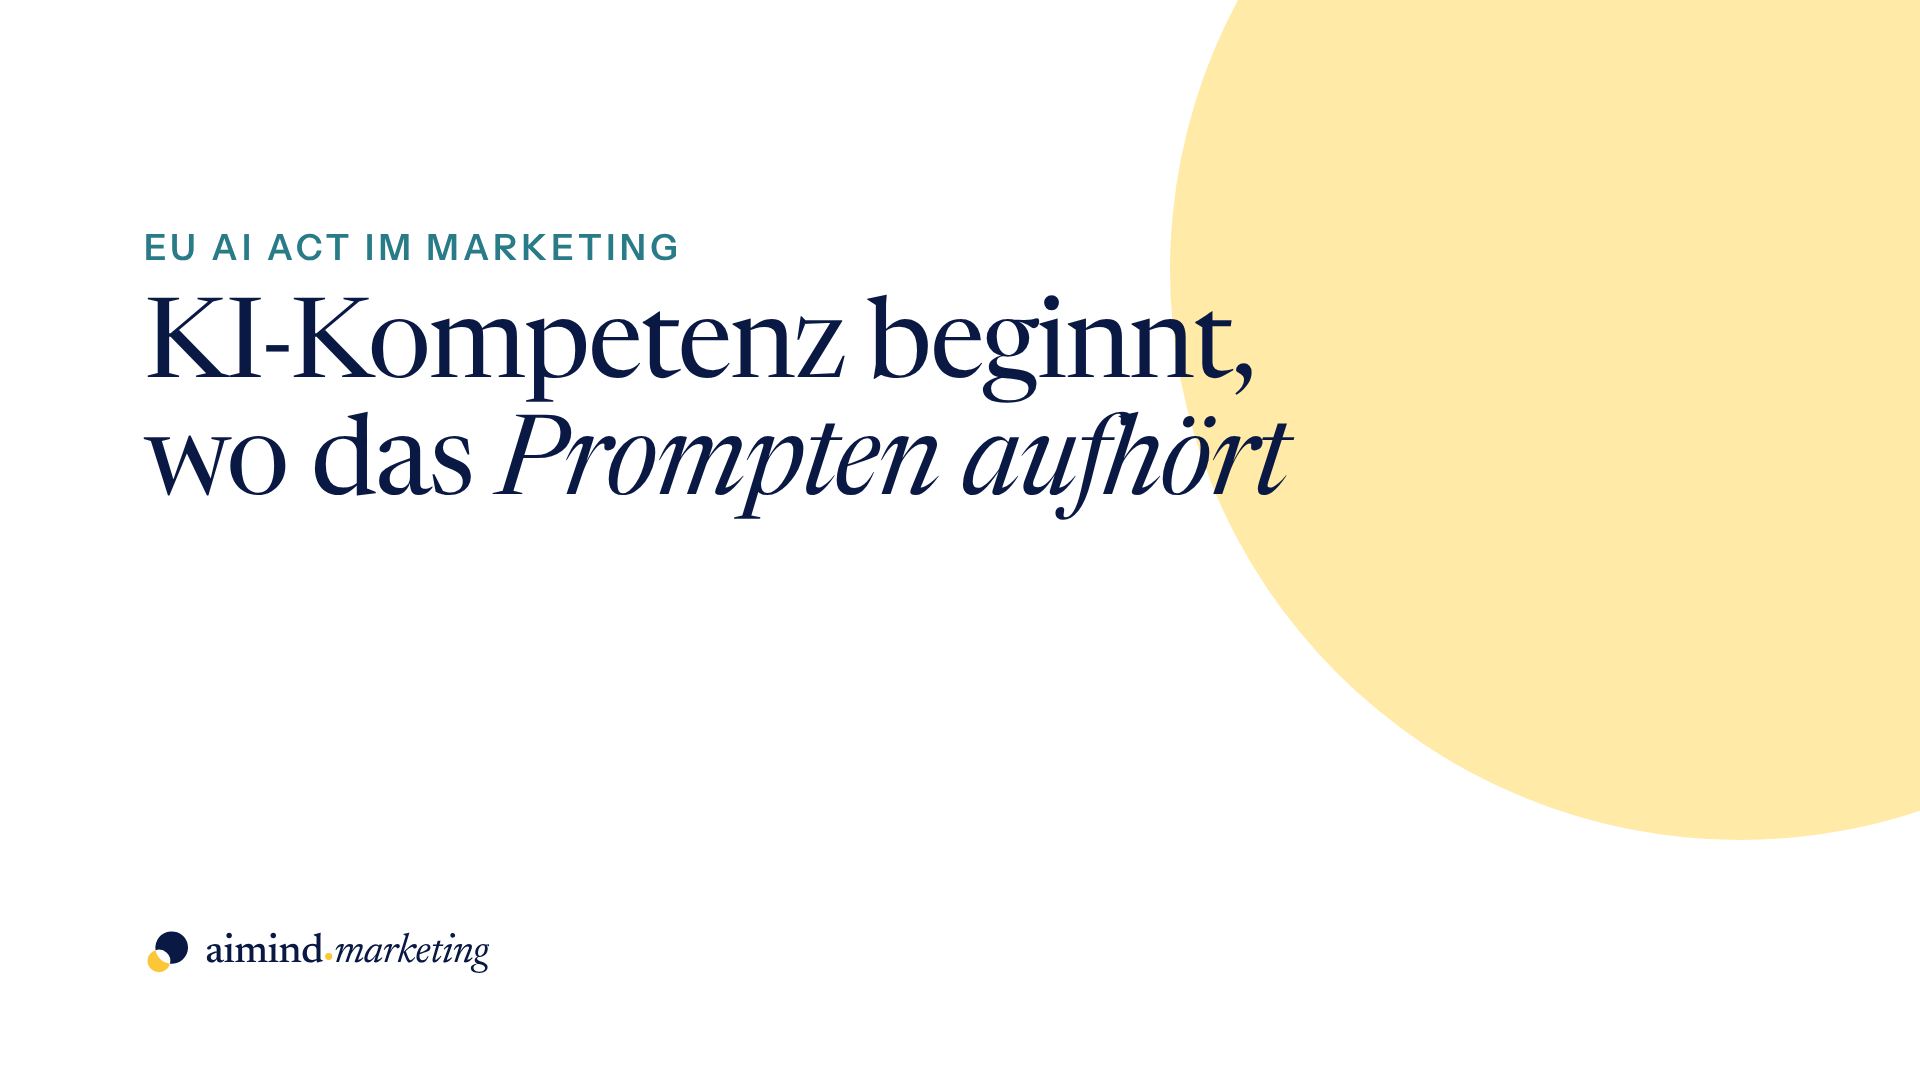
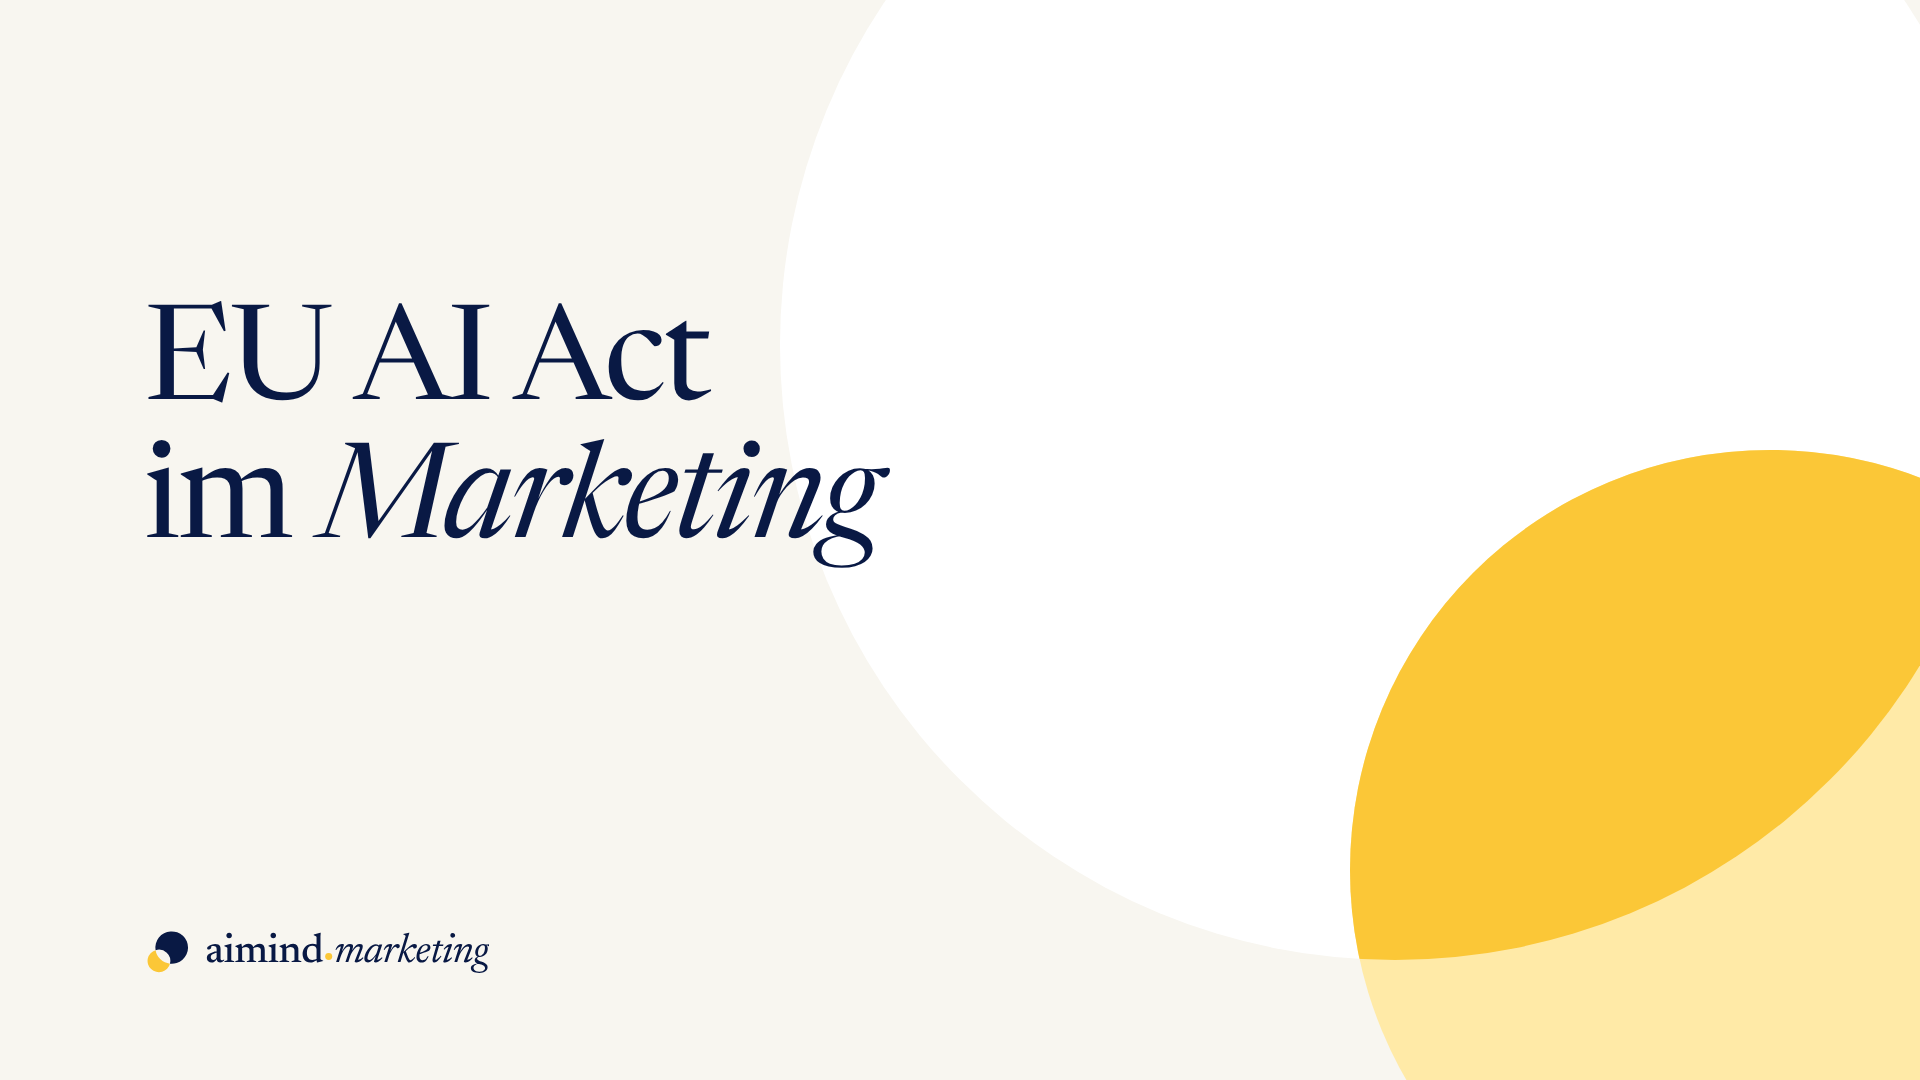
Pulse covers without the article title (AI, CMO, ROI), so LinkedIn does not show the title twice
Claude-Session: https://claude.ai/code/session_01EoT7BpRMXSboJ4awkNYbjF

diff --git a/design/infographics/cmo-pulse-cover-de.html b/design/infographics/cmo-pulse-cover-de.html
@@ -3,18 +3,18 @@
 <style>
 @font-face{font-family:"Newsreader";src:url(../../node_modules/@fontsource-variable/newsreader/files/newsreader-latin-opsz-normal.woff2) format("woff2");font-weight:200 800;font-style:normal}
 @font-face{font-family:"Newsreader";src:url(../../node_modules/@fontsource-variable/newsreader/files/newsreader-latin-opsz-italic.woff2) format("woff2");font-weight:200 800;font-style:italic}
-@font-face{font-family:"Instrument Sans";src:url(../../node_modules/@fontsource-variable/instrument-sans/files/instrument-sans-latin-wght-normal.woff2) format("woff2");font-weight:400 700}
 *{margin:0;padding:0;box-sizing:border-box}
 html,body{width:1280px;height:720px}
-body{background:#fff;font-family:"Instrument Sans",sans-serif;color:#091944;position:relative;overflow:hidden;isolation:isolate}
-.circle{position:absolute;width:760px;height:760px;border-radius:50%;background:#ffeaa7;right:-260px;top:-200px;z-index:-1}
-.kicker{position:absolute;left:96px;top:150px;font-size:24px;font-weight:600;letter-spacing:.12em;color:#2a7b88;text-transform:uppercase}
-h1{position:absolute;left:96px;top:196px;width:900px;font-family:"Newsreader",serif;font-weight:400;font-size:74px;line-height:1.05;letter-spacing:-.02em}
-h1 em{font-style:italic}
+body{background:#f8f6f0;color:#091944;position:relative;overflow:hidden;isolation:isolate}
+.c1{position:absolute;width:820px;height:820px;border-radius:50%;background:#fff;left:520px;top:-180px;z-index:-2}
+.c2{position:absolute;width:560px;height:560px;border-radius:50%;background:#ffeaa7;left:900px;top:300px;z-index:-1}
+.lens{position:absolute;left:0;top:0;z-index:-1}
+.topic{position:absolute;left:96px;top:200px;font-family:"Newsreader",serif;font-weight:400;font-size:88px;line-height:1.04;letter-spacing:-.02em}
+.topic em{font-style:italic}
 img{position:absolute;left:96px;bottom:70px;width:230px}
 </style></head><body>
-<div class="circle"></div>
-<div class="kicker">Erfahrung im Marketing</div>
-<h1>KI übernimmt die Arbeit,<br>an der der <em>Nachwuchs lernt</em></h1>
+<div class="c1"></div><div class="c2"></div>
+<svg class="lens" width="1280" height="720"><defs><clipPath id="a"><circle cx="930" cy="230" r="410"/></clipPath></defs><circle cx="1180" cy="580" r="280" fill="#fbc737" clip-path="url(#a)"/></svg>
+<div class="topic">Erfahrung<br>im <em>Marketing</em></div>
 <img src="../logo/svg/aimind-logo.svg" alt="aimind.marketing">
 </body></html>

diff --git a/design/infographics/ai-pulse-cover-de.html b/design/infographics/ai-pulse-cover-de.html
@@ -3,18 +3,18 @@
 <style>
 @font-face{font-family:"Newsreader";src:url(../../node_modules/@fontsource-variable/newsreader/files/newsreader-latin-opsz-normal.woff2) format("woff2");font-weight:200 800;font-style:normal}
 @font-face{font-family:"Newsreader";src:url(../../node_modules/@fontsource-variable/newsreader/files/newsreader-latin-opsz-italic.woff2) format("woff2");font-weight:200 800;font-style:italic}
-@font-face{font-family:"Instrument Sans";src:url(../../node_modules/@fontsource-variable/instrument-sans/files/instrument-sans-latin-wght-normal.woff2) format("woff2");font-weight:400 700}
 *{margin:0;padding:0;box-sizing:border-box}
 html,body{width:1280px;height:720px}
-body{background:#fff;font-family:"Instrument Sans",sans-serif;color:#091944;position:relative;overflow:hidden;isolation:isolate}
-.circle{position:absolute;width:760px;height:760px;border-radius:50%;background:#ffeaa7;right:-260px;top:-200px;z-index:-1}
-.kicker{position:absolute;left:96px;top:150px;font-size:24px;font-weight:600;letter-spacing:.12em;color:#2a7b88;text-transform:uppercase}
-h1{position:absolute;left:96px;top:196px;width:900px;font-family:"Newsreader",serif;font-weight:400;font-size:74px;line-height:1.05;letter-spacing:-.02em}
-h1 em{font-style:italic}
+body{background:#f8f6f0;color:#091944;position:relative;overflow:hidden;isolation:isolate}
+.c1{position:absolute;width:820px;height:820px;border-radius:50%;background:#fff;left:520px;top:-180px;z-index:-2}
+.c2{position:absolute;width:560px;height:560px;border-radius:50%;background:#ffeaa7;left:900px;top:300px;z-index:-1}
+.lens{position:absolute;left:0;top:0;z-index:-1}
+.topic{position:absolute;left:96px;top:200px;font-family:"Newsreader",serif;font-weight:400;font-size:88px;line-height:1.04;letter-spacing:-.02em}
+.topic em{font-style:italic}
 img{position:absolute;left:96px;bottom:70px;width:230px}
 </style></head><body>
-<div class="circle"></div>
-<div class="kicker">EU AI Act im Marketing</div>
-<h1>KI-Kompetenz beginnt,<br>wo das <em>Prompten aufhört</em></h1>
+<div class="c1"></div><div class="c2"></div>
+<svg class="lens" width="1280" height="720"><defs><clipPath id="a"><circle cx="930" cy="230" r="410"/></clipPath></defs><circle cx="1180" cy="580" r="280" fill="#fbc737" clip-path="url(#a)"/></svg>
+<div class="topic">EU AI Act<br>im <em>Marketing</em></div>
 <img src="../logo/svg/aimind-logo.svg" alt="aimind.marketing">
 </body></html>

diff --git a/design/infographics/roi-pulse-cover-de.html b/design/infographics/roi-pulse-cover-de.html
@@ -1,0 +1,20 @@
+<!doctype html>
+<html lang="de"><head><meta charset="utf-8">
+<style>
+@font-face{font-family:"Newsreader";src:url(../../node_modules/@fontsource-variable/newsreader/files/newsreader-latin-opsz-normal.woff2) format("woff2");font-weight:200 800;font-style:normal}
+@font-face{font-family:"Newsreader";src:url(../../node_modules/@fontsource-variable/newsreader/files/newsreader-latin-opsz-italic.woff2) format("woff2");font-weight:200 800;font-style:italic}
+*{margin:0;padding:0;box-sizing:border-box}
+html,body{width:1280px;height:720px}
+body{background:#f8f6f0;color:#091944;position:relative;overflow:hidden;isolation:isolate}
+.c1{position:absolute;width:820px;height:820px;border-radius:50%;background:#fff;left:520px;top:-180px;z-index:-2}
+.c2{position:absolute;width:560px;height:560px;border-radius:50%;background:#ffeaa7;left:900px;top:300px;z-index:-1}
+.lens{position:absolute;left:0;top:0;z-index:-1}
+.topic{position:absolute;left:96px;top:200px;font-family:"Newsreader",serif;font-weight:400;font-size:88px;line-height:1.04;letter-spacing:-.02em}
+.topic em{font-style:italic}
+img{position:absolute;left:96px;bottom:70px;width:230px}
+</style></head><body>
+<div class="c1"></div><div class="c2"></div>
+<svg class="lens" width="1280" height="720"><defs><clipPath id="a"><circle cx="930" cy="230" r="410"/></clipPath></defs><circle cx="1180" cy="580" r="280" fill="#fbc737" clip-path="url(#a)"/></svg>
+<div class="topic">Marketing&shy;kennzahlen<br>im <em>Vorstand</em></div>
+<img src="../logo/svg/aimind-logo.svg" alt="aimind.marketing">
+</body></html>
